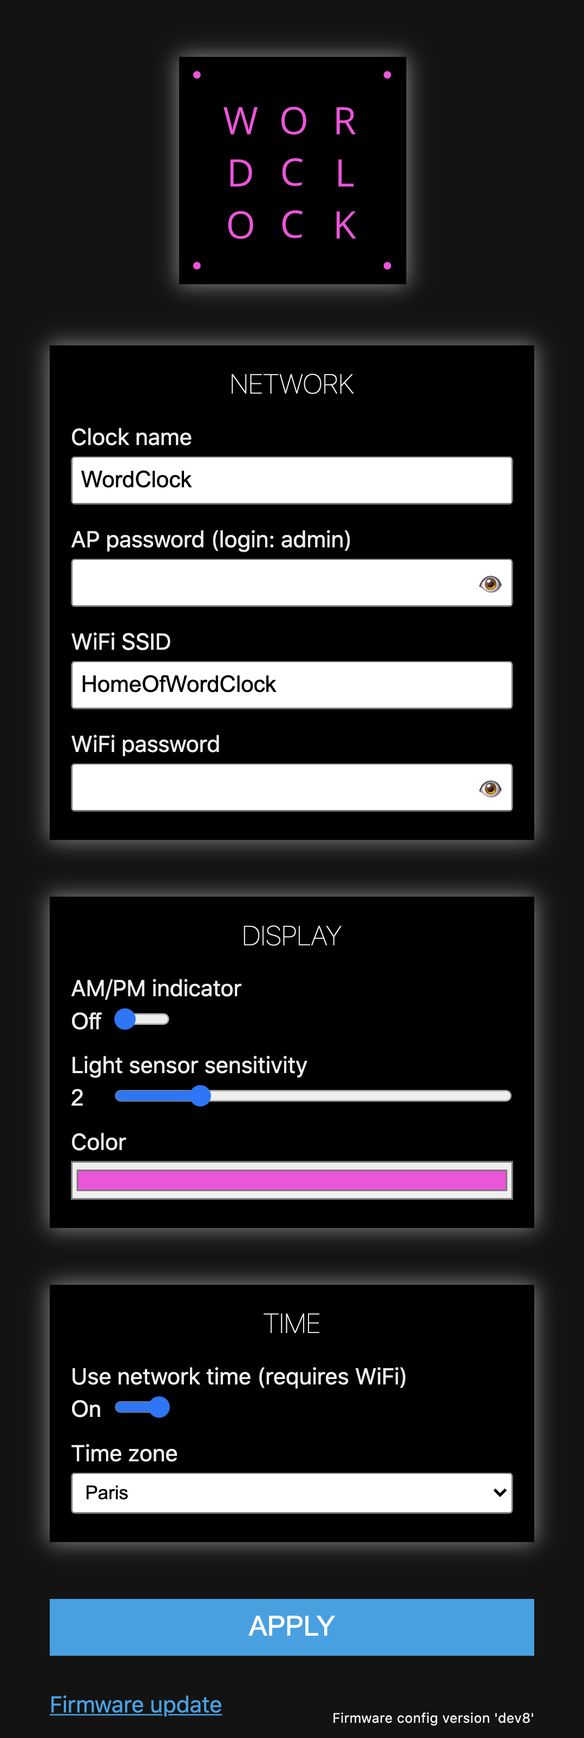
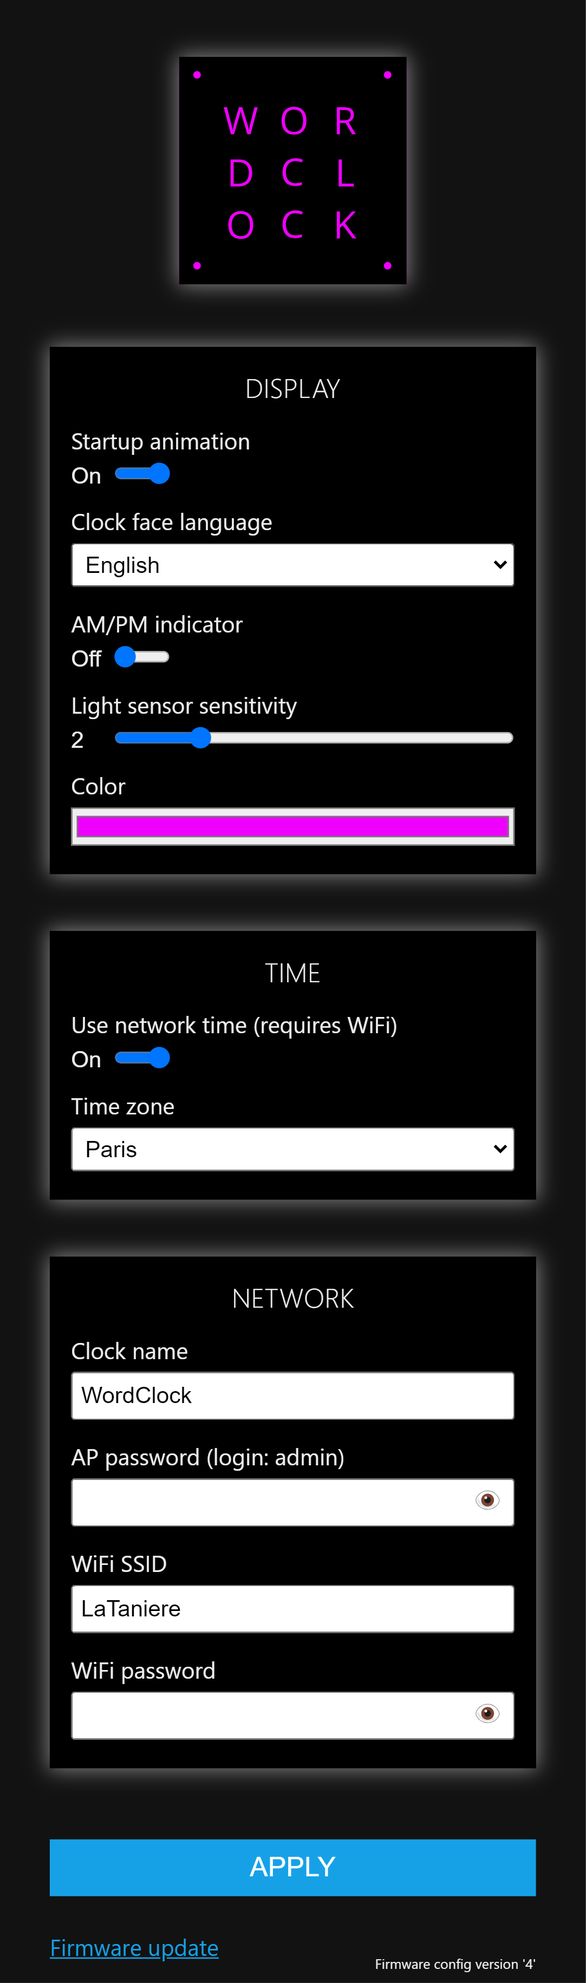
Web UI updates: hide am/pm if unused,  network section at bottom when already set

diff --git a/software/tools/customhtml_script_inner.js b/software/tools/customhtml_script_inner.js
@@ -10,6 +10,13 @@ document.addEventListener(
     'DOMContentLoaded',
     function (e) {
 
+        // Move network session at the bottom if SSID is set.
+        if(!!document.getElementById("iwcWifiSsid").value) {
+          const f = document.getElementById("iwcSys");
+          f.parentElement.removeChild(f);
+          document.querySelector('form').insertBefore(f, document.querySelector('button[type=submit]'));
+       }
+
         // Replace text inputs with desired type
         document.querySelectorAll("[data-type]").forEach((el) => {
           el.type = el.getAttribute("data-type");
@@ -85,11 +92,17 @@ document.addEventListener(
                 selectEl.appendChild(optgroupEl);
             }
             customSelect.id += '-d';
+            const ctrlAttr = customSelect.getAttribute('data-controlledby');
+            const ctrlVal = customSelect.getAttribute('data-showon');
+            if (ctrlAttr && ctrlVal) {
+              selectEl.setAttribute('data-controlledby', ctrlAttr);
+              selectEl.setAttribute('data-showon', ctrlVal);
+            }
             customSelect.insertAdjacentElement('beforebegin', selectEl);
             customSelect.parentElement.removeChild(customSelect);
         });
 
-        // Adds a label next to Range inputs
+        // Adds a label next to Range inputs.
         document.querySelectorAll("input[type=range]").forEach((inputEl) => {
             const labels = inputEl.getAttribute("data-labels");
             const labelList = labels && labels.split("|");
@@ -100,18 +113,16 @@ document.addEventListener(
             setLabel();
         });
 
-        // // Show/hide config fields based on NTP setting
-        const ntpEl = document.getElementById("ntp_enabled");
-        if (ntpEl) {
-            const toggleTimeFields = (ntpEnabled) => {
-                document.getElementById('time').parentElement.style.display = ntpEnabled ? 'none' : '';
-                document.getElementById('timezone').parentElement.style.display = ntpEnabled ? '' : 'none';
-            };
-            ntpEl.addEventListener('change', (e) => {
-                toggleTimeFields(ntpEl.value == 1);
-            });
-            toggleTimeFields(ntpEl.value == 1);
-        }
+        // Show/hide fields based on others.
+        document.querySelectorAll("[data-controlledby]").forEach((controlledEl) => {
+          const controllerEl = document.getElementById(controlledEl.getAttribute('data-controlledby'));
+          const showValues = controlledEl.getAttribute('data-showon').split('|');
+          const apply = () => {
+            controlledEl.parentElement.style.display = showValues.indexOf(controllerEl.value + "") < 0 ? 'none' : '';
+          };
+          controllerEl.addEventListener('change', apply);
+          apply();
+        });
 
         // Apply the selected color to the clock logo :)
         const colorInputEl = document.querySelector('input[type=color]');

diff --git a/software/tools/timezones_gen.js b/software/tools/timezones_gen.js
@@ -36,7 +36,7 @@ ${posix}
 
 const char * const location[] PROGMEM = {${nameconsts.join(",")}};
 const char * const posix[] PROGMEM = {${posixconsts.join(",")}};
-const char locationOptions[] PROGMEM = "data-options='${readables.join("|")}'";
+const char locationOptions[] PROGMEM = "data-controlledby='ntp_enabled' data-showon='1' data-options='${readables.join("|")}'";
 
   `;
 

diff --git a/software/wordclock/src/src/Timezones.h b/software/wordclock/src/src/Timezones.h
@@ -928,4 +928,4 @@ const char posix459[] PROGMEM = "<+12>-12";
 
 const char *const location[] PROGMEM = {location0, location1, location2, location3, location4, location5, location6, location7, location8, location9, location10, location11, location12, location13, location14, location15, location16, location17, location18, location19, location20, location21, location22, location23, location24, location25, location26, location27, location28, location29, location30, location31, location32, location33, location34, location35, location36, location37, location38, location39, location40, location41, location42, location43, location44, location45, location46, location47, location48, location49, location50, location51, location52, location53, location54, location55, location56, location57, location58, location59, location60, location61, location62, location63, location64, location65, location66, location67, location68, location69, location70, location71, location72, location73, location74, location75, location76, location77, location78, location79, location80, location81, location82, location83, location84, location85, location86, location87, location88, location89, location90, location91, location92, location93, location94, location95, location96, location97, location98, location99, location100, location101, location102, location103, location104, location105, location106, location107, location108, location109, location110, location111, location112, location113, location114, location115, location116, location117, location118, location119, location120, location121, location122, location123, location124, location125, location126, location127, location128, location129, location130, location131, location132, location133, location134, location135, location136, location137, location138, location139, location140, location141, location142, location143, location144, location145, location146, location147, location148, location149, location150, location151, location152, location153, location154, location155, location156, location157, location158, location159, location160, location161, location162, location163, location164, location165, location166, location167, location168, location169, location170, location171, location172, location173, location174, location175, location176, location177, location178, location179, location180, location181, location182, location183, location184, location185, location186, location187, location188, location189, location190, location191, location192, location193, location194, location195, location196, location197, location198, location199, location200, location201, location202, location203, location204, location205, location206, location207, location208, location209, location210, location211, location212, location213, location214, location215, location216, location217, location218, location219, location220, location221, location222, location223, location224, location225, location226, location227, location228, location229, location230, location231, location232, location233, location234, location235, location236, location237, location238, location239, location240, location241, location242, location243, location244, location245, location246, location247, location248, location249, location250, location251, location252, location253, location254, location255, location256, location257, location258, location259, location260, location261, location262, location263, location264, location265, location266, location267, location268, location269, location270, location271, location272, location273, location274, location275, location276, location277, location278, location279, location280, location281, location282, location283, location284, location285, location286, location287, location288, location289, location290, location291, location292, location293, location294, location295, location296, location297, location298, location299, location300, location301, location302, location303, location304, location305, location306, location307, location308, location309, location310, location311, location312, location313, location314, location315, location316, location317, location318, location319, location320, location321, location322, location323, location324, location325, location326, location327, location328, location329, location330, location331, location332, location333, location334, location335, location336, location337, location338, location339, location340, location341, location342, location343, location344, location345, location346, location347, location348, location349, location350, location351, location352, location353, location354, location355, location356, location357, location358, location359, location360, location361, location362, location363, location364, location365, location366, location367, location368, location369, location370, location371, location372, location373, location374, location375, location376, location377, location378, location379, location380, location381, location382, location383, location384, location385, location386, location387, location388, location389, location390, location391, location392, location393, location394, location395, location396, location397, location398, location399, location400, location401, location402, location403, location404, location405, location406, location407, location408, location409, location410, location411, location412, location413, location414, location415, location416, location417, location418, location419, location420, location421, location422, location423, location424, location425, location426, location427, location428, location429, location430, location431, location432, location433, location434, location435, location436, location437, location438, location439, location440, location441, location442, location443, location444, location445, location446, location447, location448, location449, location450, location451, location452, location453, location454, location455, location456, location457, location458, location459};
 const char *const posix[] PROGMEM = {posix0, posix1, posix2, posix3, posix4, posix5, posix6, posix7, posix8, posix9, posix10, posix11, posix12, posix13, posix14, posix15, posix16, posix17, posix18, posix19, posix20, posix21, posix22, posix23, posix24, posix25, posix26, posix27, posix28, posix29, posix30, posix31, posix32, posix33, posix34, posix35, posix36, posix37, posix38, posix39, posix40, posix41, posix42, posix43, posix44, posix45, posix46, posix47, posix48, posix49, posix50, posix51, posix52, posix53, posix54, posix55, posix56, posix57, posix58, posix59, posix60, posix61, posix62, posix63, posix64, posix65, posix66, posix67, posix68, posix69, posix70, posix71, posix72, posix73, posix74, posix75, posix76, posix77, posix78, posix79, posix80, posix81, posix82, posix83, posix84, posix85, posix86, posix87, posix88, posix89, posix90, posix91, posix92, posix93, posix94, posix95, posix96, posix97, posix98, posix99, posix100, posix101, posix102, posix103, posix104, posix105, posix106, posix107, posix108, posix109, posix110, posix111, posix112, posix113, posix114, posix115, posix116, posix117, posix118, posix119, posix120, posix121, posix122, posix123, posix124, posix125, posix126, posix127, posix128, posix129, posix130, posix131, posix132, posix133, posix134, posix135, posix136, posix137, posix138, posix139, posix140, posix141, posix142, posix143, posix144, posix145, posix146, posix147, posix148, posix149, posix150, posix151, posix152, posix153, posix154, posix155, posix156, posix157, posix158, posix159, posix160, posix161, posix162, posix163, posix164, posix165, posix166, posix167, posix168, posix169, posix170, posix171, posix172, posix173, posix174, posix175, posix176, posix177, posix178, posix179, posix180, posix181, posix182, posix183, posix184, posix185, posix186, posix187, posix188, posix189, posix190, posix191, posix192, posix193, posix194, posix195, posix196, posix197, posix198, posix199, posix200, posix201, posix202, posix203, posix204, posix205, posix206, posix207, posix208, posix209, posix210, posix211, posix212, posix213, posix214, posix215, posix216, posix217, posix218, posix219, posix220, posix221, posix222, posix223, posix224, posix225, posix226, posix227, posix228, posix229, posix230, posix231, posix232, posix233, posix234, posix235, posix236, posix237, posix238, posix239, posix240, posix241, posix242, posix243, posix244, posix245, posix246, posix247, posix248, posix249, posix250, posix251, posix252, posix253, posix254, posix255, posix256, posix257, posix258, posix259, posix260, posix261, posix262, posix263, posix264, posix265, posix266, posix267, posix268, posix269, posix270, posix271, posix272, posix273, posix274, posix275, posix276, posix277, posix278, posix279, posix280, posix281, posix282, posix283, posix284, posix285, posix286, posix287, posix288, posix289, posix290, posix291, posix292, posix293, posix294, posix295, posix296, posix297, posix298, posix299, posix300, posix301, posix302, posix303, posix304, posix305, posix306, posix307, posix308, posix309, posix310, posix311, posix312, posix313, posix314, posix315, posix316, posix317, posix318, posix319, posix320, posix321, posix322, posix323, posix324, posix325, posix326, posix327, posix328, posix329, posix330, posix331, posix332, posix333, posix334, posix335, posix336, posix337, posix338, posix339, posix340, posix341, posix342, posix343, posix344, posix345, posix346, posix347, posix348, posix349, posix350, posix351, posix352, posix353, posix354, posix355, posix356, posix357, posix358, posix359, posix360, posix361, posix362, posix363, posix364, posix365, posix366, posix367, posix368, posix369, posix370, posix371, posix372, posix373, posix374, posix375, posix376, posix377, posix378, posix379, posix380, posix381, posix382, posix383, posix384, posix385, posix386, posix387, posix388, posix389, posix390, posix391, posix392, posix393, posix394, posix395, posix396, posix397, posix398, posix399, posix400, posix401, posix402, posix403, posix404, posix405, posix406, posix407, posix408, posix409, posix410, posix411, posix412, posix413, posix414, posix415, posix416, posix417, posix418, posix419, posix420, posix421, posix422, posix423, posix424, posix425, posix426, posix427, posix428, posix429, posix430, posix431, posix432, posix433, posix434, posix435, posix436, posix437, posix438, posix439, posix440, posix441, posix442, posix443, posix444, posix445, posix446, posix447, posix448, posix449, posix450, posix451, posix452, posix453, posix454, posix455, posix456, posix457, posix458, posix459};
-const char locationOptions[] PROGMEM = "data-options='Africa/Abidjan|Africa/Accra|Africa/Addis Ababa|Africa/Algiers|Africa/Asmara|Africa/Bamako|Africa/Bangui|Africa/Banjul|Africa/Bissau|Africa/Blantyre|Africa/Brazzaville|Africa/Bujumbura|Africa/Cairo|Africa/Casablanca|Africa/Ceuta|Africa/Conakry|Africa/Dakar|Africa/Dar es Salaam|Africa/Djibouti|Africa/Douala|Africa/El Aaiun|Africa/Freetown|Africa/Gaborone|Africa/Harare|Africa/Johannesburg|Africa/Juba|Africa/Kampala|Africa/Khartoum|Africa/Kigali|Africa/Kinshasa|Africa/Lagos|Africa/Libreville|Africa/Lome|Africa/Luanda|Africa/Lubumbashi|Africa/Lusaka|Africa/Malabo|Africa/Maputo|Africa/Maseru|Africa/Mbabane|Africa/Mogadishu|Africa/Monrovia|Africa/Nairobi|Africa/Ndjamena|Africa/Niamey|Africa/Nouakchott|Africa/Ouagadougou|Africa/Porto-Novo|Africa/Sao Tome|Africa/Tripoli|Africa/Tunis|Africa/Windhoek|America/Adak|America/Anchorage|America/Anguilla|America/Antigua|America/Araguaina|America/Argentina/Buenos Aires|America/Argentina/Catamarca|America/Argentina/Cordoba|America/Argentina/Jujuy|America/Argentina/La Rioja|America/Argentina/Mendoza|America/Argentina/Rio Gallegos|America/Argentina/Salta|America/Argentina/San Juan|America/Argentina/San Luis|America/Argentina/Tucuman|America/Argentina/Ushuaia|America/Aruba|America/Asuncion|America/Atikokan|America/Bahia|America/Bahia Banderas|America/Barbados|America/Belem|America/Belize|America/Blanc-Sablon|America/Boa Vista|America/Bogota|America/Boise|America/Cambridge Bay|America/Campo Grande|America/Cancun|America/Caracas|America/Cayenne|America/Cayman|America/Chicago|America/Chihuahua|America/Costa Rica|America/Creston|America/Cuiaba|America/Curacao|America/Danmarkshavn|America/Dawson|America/Dawson Creek|America/Denver|America/Detroit|America/Dominica|America/Edmonton|America/Eirunepe|America/El Salvador|America/Fort Nelson|America/Fortaleza|America/Glace Bay|America/Godthab|America/Goose Bay|America/Grand Turk|America/Grenada|America/Guadeloupe|America/Guatemala|America/Guayaquil|America/Guyana|America/Halifax|America/Havana|America/Hermosillo|America/Indiana/Indianapolis|America/Indiana/Knox|America/Indiana/Marengo|America/Indiana/Petersburg|America/Indiana/Tell City|America/Indiana/Vevay|America/Indiana/Vincennes|America/Indiana/Winamac|America/Inuvik|America/Iqaluit|America/Jamaica|America/Juneau|America/Kentucky/Louisville|America/Kentucky/Monticello|America/Kralendijk|America/La Paz|America/Lima|America/Los Angeles|America/Lower Princes|America/Maceio|America/Managua|America/Manaus|America/Marigot|America/Martinique|America/Matamoros|America/Mazatlan|America/Menominee|America/Merida|America/Metlakatla|America/Mexico City|America/Miquelon|America/Moncton|America/Monterrey|America/Montevideo|America/Montreal|America/Montserrat|America/Nassau|America/New York|America/Nipigon|America/Nome|America/Noronha|America/North Dakota/Beulah|America/North Dakota/Center|America/North Dakota/New Salem|America/Ojinaga|America/Panama|America/Pangnirtung|America/Paramaribo|America/Phoenix|America/Port-au-Prince|America/Port of Spain|America/Porto Velho|America/Puerto Rico|America/Punta Arenas|America/Rainy River|America/Rankin Inlet|America/Recife|America/Regina|America/Resolute|America/Rio Branco|America/Santarem|America/Santiago|America/Santo Domingo|America/Sao Paulo|America/Scoresbysund|America/Sitka|America/St Barthelemy|America/St Johns|America/St Kitts|America/St Lucia|America/St Thomas|America/St Vincent|America/Swift Current|America/Tegucigalpa|America/Thule|America/Thunder Bay|America/Tijuana|America/Toronto|America/Tortola|America/Vancouver|America/Whitehorse|America/Winnipeg|America/Yakutat|America/Yellowknife|Antarctica/Casey|Antarctica/Davis|Antarctica/DumontDUrville|Antarctica/Macquarie|Antarctica/Mawson|Antarctica/McMurdo|Antarctica/Palmer|Antarctica/Rothera|Antarctica/Syowa|Antarctica/Troll|Antarctica/Vostok|Arctic/Longyearbyen|Asia/Aden|Asia/Almaty|Asia/Amman|Asia/Anadyr|Asia/Aqtau|Asia/Aqtobe|Asia/Ashgabat|Asia/Atyrau|Asia/Baghdad|Asia/Bahrain|Asia/Baku|Asia/Bangkok|Asia/Barnaul|Asia/Beirut|Asia/Bishkek|Asia/Brunei|Asia/Chita|Asia/Choibalsan|Asia/Colombo|Asia/Damascus|Asia/Dhaka|Asia/Dili|Asia/Dubai|Asia/Dushanbe|Asia/Famagusta|Asia/Gaza|Asia/Hebron|Asia/Ho Chi Minh|Asia/Hong Kong|Asia/Hovd|Asia/Irkutsk|Asia/Jakarta|Asia/Jayapura|Asia/Jerusalem|Asia/Kabul|Asia/Kamchatka|Asia/Karachi|Asia/Kathmandu|Asia/Khandyga|Asia/Kolkata|Asia/Krasnoyarsk|Asia/Kuala Lumpur|Asia/Kuching|Asia/Kuwait|Asia/Macau|Asia/Magadan|Asia/Makassar|Asia/Manila|Asia/Muscat|Asia/Nicosia|Asia/Novokuznetsk|Asia/Novosibirsk|Asia/Omsk|Asia/Oral|Asia/Phnom Penh|Asia/Pontianak|Asia/Pyongyang|Asia/Qatar|Asia/Qyzylorda|Asia/Riyadh|Asia/Sakhalin|Asia/Samarkand|Asia/Seoul|Asia/Shanghai|Asia/Singapore|Asia/Srednekolymsk|Asia/Taipei|Asia/Tashkent|Asia/Tbilisi|Asia/Tehran|Asia/Thimphu|Asia/Tokyo|Asia/Tomsk|Asia/Ulaanbaatar|Asia/Urumqi|Asia/Ust-Nera|Asia/Vientiane|Asia/Vladivostok|Asia/Yakutsk|Asia/Yangon|Asia/Yekaterinburg|Asia/Yerevan|Atlantic/Azores|Atlantic/Bermuda|Atlantic/Canary|Atlantic/Cape Verde|Atlantic/Faroe|Atlantic/Madeira|Atlantic/Reykjavik|Atlantic/South Georgia|Atlantic/St Helena|Atlantic/Stanley|Australia/Adelaide|Australia/Brisbane|Australia/Broken Hill|Australia/Currie|Australia/Darwin|Australia/Eucla|Australia/Hobart|Australia/Lindeman|Australia/Lord Howe|Australia/Melbourne|Australia/Perth|Australia/Sydney|Etc/GMT|Etc/GMT+0|Etc/GMT+1|Etc/GMT+10|Etc/GMT+11|Etc/GMT+12|Etc/GMT+2|Etc/GMT+3|Etc/GMT+4|Etc/GMT+5|Etc/GMT+6|Etc/GMT+7|Etc/GMT+8|Etc/GMT+9|Etc/GMT-0|Etc/GMT-1|Etc/GMT-10|Etc/GMT-11|Etc/GMT-12|Etc/GMT-13|Etc/GMT-14|Etc/GMT-2|Etc/GMT-3|Etc/GMT-4|Etc/GMT-5|Etc/GMT-6|Etc/GMT-7|Etc/GMT-8|Etc/GMT-9|Etc/GMT0|Etc/Greenwich|Etc/UCT|Etc/UTC|Etc/Universal|Etc/Zulu|Europe/Amsterdam|Europe/Andorra|Europe/Astrakhan|Europe/Athens|Europe/Belgrade|Europe/Berlin|Europe/Bratislava|Europe/Brussels|Europe/Bucharest|Europe/Budapest|Europe/Busingen|Europe/Chisinau|Europe/Copenhagen|Europe/Dublin|Europe/Gibraltar|Europe/Guernsey|Europe/Helsinki|Europe/Isle of Man|Europe/Istanbul|Europe/Jersey|Europe/Kaliningrad|Europe/Kiev|Europe/Kirov|Europe/Lisbon|Europe/Ljubljana|Europe/London|Europe/Luxembourg|Europe/Madrid|Europe/Malta|Europe/Mariehamn|Europe/Minsk|Europe/Monaco|Europe/Moscow|Europe/Oslo|Europe/Paris|Europe/Podgorica|Europe/Prague|Europe/Riga|Europe/Rome|Europe/Samara|Europe/San Marino|Europe/Sarajevo|Europe/Saratov|Europe/Simferopol|Europe/Skopje|Europe/Sofia|Europe/Stockholm|Europe/Tallinn|Europe/Tirane|Europe/Ulyanovsk|Europe/Uzhgorod|Europe/Vaduz|Europe/Vatican|Europe/Vienna|Europe/Vilnius|Europe/Volgograd|Europe/Warsaw|Europe/Zagreb|Europe/Zaporozhye|Europe/Zurich|Indian/Antananarivo|Indian/Chagos|Indian/Christmas|Indian/Cocos|Indian/Comoro|Indian/Kerguelen|Indian/Mahe|Indian/Maldives|Indian/Mauritius|Indian/Mayotte|Indian/Reunion|Pacific/Apia|Pacific/Auckland|Pacific/Bougainville|Pacific/Chatham|Pacific/Chuuk|Pacific/Easter|Pacific/Efate|Pacific/Enderbury|Pacific/Fakaofo|Pacific/Fiji|Pacific/Funafuti|Pacific/Galapagos|Pacific/Gambier|Pacific/Guadalcanal|Pacific/Guam|Pacific/Honolulu|Pacific/Kiritimati|Pacific/Kosrae|Pacific/Kwajalein|Pacific/Majuro|Pacific/Marquesas|Pacific/Midway|Pacific/Nauru|Pacific/Niue|Pacific/Norfolk|Pacific/Noumea|Pacific/Pago Pago|Pacific/Palau|Pacific/Pitcairn|Pacific/Pohnpei|Pacific/Port Moresby|Pacific/Rarotonga|Pacific/Saipan|Pacific/Tahiti|Pacific/Tarawa|Pacific/Tongatapu|Pacific/Wake|Pacific/Wallis'";
+const char locationOptions[] PROGMEM = "data-controlledby='ntp_enabled' data-showon='1' data-options='Africa/Abidjan|Africa/Accra|Africa/Addis Ababa|Africa/Algiers|Africa/Asmara|Africa/Bamako|Africa/Bangui|Africa/Banjul|Africa/Bissau|Africa/Blantyre|Africa/Brazzaville|Africa/Bujumbura|Africa/Cairo|Africa/Casablanca|Africa/Ceuta|Africa/Conakry|Africa/Dakar|Africa/Dar es Salaam|Africa/Djibouti|Africa/Douala|Africa/El Aaiun|Africa/Freetown|Africa/Gaborone|Africa/Harare|Africa/Johannesburg|Africa/Juba|Africa/Kampala|Africa/Khartoum|Africa/Kigali|Africa/Kinshasa|Africa/Lagos|Africa/Libreville|Africa/Lome|Africa/Luanda|Africa/Lubumbashi|Africa/Lusaka|Africa/Malabo|Africa/Maputo|Africa/Maseru|Africa/Mbabane|Africa/Mogadishu|Africa/Monrovia|Africa/Nairobi|Africa/Ndjamena|Africa/Niamey|Africa/Nouakchott|Africa/Ouagadougou|Africa/Porto-Novo|Africa/Sao Tome|Africa/Tripoli|Africa/Tunis|Africa/Windhoek|America/Adak|America/Anchorage|America/Anguilla|America/Antigua|America/Araguaina|America/Argentina/Buenos Aires|America/Argentina/Catamarca|America/Argentina/Cordoba|America/Argentina/Jujuy|America/Argentina/La Rioja|America/Argentina/Mendoza|America/Argentina/Rio Gallegos|America/Argentina/Salta|America/Argentina/San Juan|America/Argentina/San Luis|America/Argentina/Tucuman|America/Argentina/Ushuaia|America/Aruba|America/Asuncion|America/Atikokan|America/Bahia|America/Bahia Banderas|America/Barbados|America/Belem|America/Belize|America/Blanc-Sablon|America/Boa Vista|America/Bogota|America/Boise|America/Cambridge Bay|America/Campo Grande|America/Cancun|America/Caracas|America/Cayenne|America/Cayman|America/Chicago|America/Chihuahua|America/Costa Rica|America/Creston|America/Cuiaba|America/Curacao|America/Danmarkshavn|America/Dawson|America/Dawson Creek|America/Denver|America/Detroit|America/Dominica|America/Edmonton|America/Eirunepe|America/El Salvador|America/Fort Nelson|America/Fortaleza|America/Glace Bay|America/Godthab|America/Goose Bay|America/Grand Turk|America/Grenada|America/Guadeloupe|America/Guatemala|America/Guayaquil|America/Guyana|America/Halifax|America/Havana|America/Hermosillo|America/Indiana/Indianapolis|America/Indiana/Knox|America/Indiana/Marengo|America/Indiana/Petersburg|America/Indiana/Tell City|America/Indiana/Vevay|America/Indiana/Vincennes|America/Indiana/Winamac|America/Inuvik|America/Iqaluit|America/Jamaica|America/Juneau|America/Kentucky/Louisville|America/Kentucky/Monticello|America/Kralendijk|America/La Paz|America/Lima|America/Los Angeles|America/Lower Princes|America/Maceio|America/Managua|America/Manaus|America/Marigot|America/Martinique|America/Matamoros|America/Mazatlan|America/Menominee|America/Merida|America/Metlakatla|America/Mexico City|America/Miquelon|America/Moncton|America/Monterrey|America/Montevideo|America/Montreal|America/Montserrat|America/Nassau|America/New York|America/Nipigon|America/Nome|America/Noronha|America/North Dakota/Beulah|America/North Dakota/Center|America/North Dakota/New Salem|America/Ojinaga|America/Panama|America/Pangnirtung|America/Paramaribo|America/Phoenix|America/Port-au-Prince|America/Port of Spain|America/Porto Velho|America/Puerto Rico|America/Punta Arenas|America/Rainy River|America/Rankin Inlet|America/Recife|America/Regina|America/Resolute|America/Rio Branco|America/Santarem|America/Santiago|America/Santo Domingo|America/Sao Paulo|America/Scoresbysund|America/Sitka|America/St Barthelemy|America/St Johns|America/St Kitts|America/St Lucia|America/St Thomas|America/St Vincent|America/Swift Current|America/Tegucigalpa|America/Thule|America/Thunder Bay|America/Tijuana|America/Toronto|America/Tortola|America/Vancouver|America/Whitehorse|America/Winnipeg|America/Yakutat|America/Yellowknife|Antarctica/Casey|Antarctica/Davis|Antarctica/DumontDUrville|Antarctica/Macquarie|Antarctica/Mawson|Antarctica/McMurdo|Antarctica/Palmer|Antarctica/Rothera|Antarctica/Syowa|Antarctica/Troll|Antarctica/Vostok|Arctic/Longyearbyen|Asia/Aden|Asia/Almaty|Asia/Amman|Asia/Anadyr|Asia/Aqtau|Asia/Aqtobe|Asia/Ashgabat|Asia/Atyrau|Asia/Baghdad|Asia/Bahrain|Asia/Baku|Asia/Bangkok|Asia/Barnaul|Asia/Beirut|Asia/Bishkek|Asia/Brunei|Asia/Chita|Asia/Choibalsan|Asia/Colombo|Asia/Damascus|Asia/Dhaka|Asia/Dili|Asia/Dubai|Asia/Dushanbe|Asia/Famagusta|Asia/Gaza|Asia/Hebron|Asia/Ho Chi Minh|Asia/Hong Kong|Asia/Hovd|Asia/Irkutsk|Asia/Jakarta|Asia/Jayapura|Asia/Jerusalem|Asia/Kabul|Asia/Kamchatka|Asia/Karachi|Asia/Kathmandu|Asia/Khandyga|Asia/Kolkata|Asia/Krasnoyarsk|Asia/Kuala Lumpur|Asia/Kuching|Asia/Kuwait|Asia/Macau|Asia/Magadan|Asia/Makassar|Asia/Manila|Asia/Muscat|Asia/Nicosia|Asia/Novokuznetsk|Asia/Novosibirsk|Asia/Omsk|Asia/Oral|Asia/Phnom Penh|Asia/Pontianak|Asia/Pyongyang|Asia/Qatar|Asia/Qyzylorda|Asia/Riyadh|Asia/Sakhalin|Asia/Samarkand|Asia/Seoul|Asia/Shanghai|Asia/Singapore|Asia/Srednekolymsk|Asia/Taipei|Asia/Tashkent|Asia/Tbilisi|Asia/Tehran|Asia/Thimphu|Asia/Tokyo|Asia/Tomsk|Asia/Ulaanbaatar|Asia/Urumqi|Asia/Ust-Nera|Asia/Vientiane|Asia/Vladivostok|Asia/Yakutsk|Asia/Yangon|Asia/Yekaterinburg|Asia/Yerevan|Atlantic/Azores|Atlantic/Bermuda|Atlantic/Canary|Atlantic/Cape Verde|Atlantic/Faroe|Atlantic/Madeira|Atlantic/Reykjavik|Atlantic/South Georgia|Atlantic/St Helena|Atlantic/Stanley|Australia/Adelaide|Australia/Brisbane|Australia/Broken Hill|Australia/Currie|Australia/Darwin|Australia/Eucla|Australia/Hobart|Australia/Lindeman|Australia/Lord Howe|Australia/Melbourne|Australia/Perth|Australia/Sydney|Etc/GMT|Etc/GMT+0|Etc/GMT+1|Etc/GMT+10|Etc/GMT+11|Etc/GMT+12|Etc/GMT+2|Etc/GMT+3|Etc/GMT+4|Etc/GMT+5|Etc/GMT+6|Etc/GMT+7|Etc/GMT+8|Etc/GMT+9|Etc/GMT-0|Etc/GMT-1|Etc/GMT-10|Etc/GMT-11|Etc/GMT-12|Etc/GMT-13|Etc/GMT-14|Etc/GMT-2|Etc/GMT-3|Etc/GMT-4|Etc/GMT-5|Etc/GMT-6|Etc/GMT-7|Etc/GMT-8|Etc/GMT-9|Etc/GMT0|Etc/Greenwich|Etc/UCT|Etc/UTC|Etc/Universal|Etc/Zulu|Europe/Amsterdam|Europe/Andorra|Europe/Astrakhan|Europe/Athens|Europe/Belgrade|Europe/Berlin|Europe/Bratislava|Europe/Brussels|Europe/Bucharest|Europe/Budapest|Europe/Busingen|Europe/Chisinau|Europe/Copenhagen|Europe/Dublin|Europe/Gibraltar|Europe/Guernsey|Europe/Helsinki|Europe/Isle of Man|Europe/Istanbul|Europe/Jersey|Europe/Kaliningrad|Europe/Kiev|Europe/Kirov|Europe/Lisbon|Europe/Ljubljana|Europe/London|Europe/Luxembourg|Europe/Madrid|Europe/Malta|Europe/Mariehamn|Europe/Minsk|Europe/Monaco|Europe/Moscow|Europe/Oslo|Europe/Paris|Europe/Podgorica|Europe/Prague|Europe/Riga|Europe/Rome|Europe/Samara|Europe/San Marino|Europe/Sarajevo|Europe/Saratov|Europe/Simferopol|Europe/Skopje|Europe/Sofia|Europe/Stockholm|Europe/Tallinn|Europe/Tirane|Europe/Ulyanovsk|Europe/Uzhgorod|Europe/Vaduz|Europe/Vatican|Europe/Vienna|Europe/Vilnius|Europe/Volgograd|Europe/Warsaw|Europe/Zagreb|Europe/Zaporozhye|Europe/Zurich|Indian/Antananarivo|Indian/Chagos|Indian/Christmas|Indian/Cocos|Indian/Comoro|Indian/Kerguelen|Indian/Mahe|Indian/Maldives|Indian/Mauritius|Indian/Mayotte|Indian/Reunion|Pacific/Apia|Pacific/Auckland|Pacific/Bougainville|Pacific/Chatham|Pacific/Chuuk|Pacific/Easter|Pacific/Efate|Pacific/Enderbury|Pacific/Fakaofo|Pacific/Fiji|Pacific/Funafuti|Pacific/Galapagos|Pacific/Gambier|Pacific/Guadalcanal|Pacific/Guam|Pacific/Honolulu|Pacific/Kiritimati|Pacific/Kosrae|Pacific/Kwajalein|Pacific/Majuro|Pacific/Marquesas|Pacific/Midway|Pacific/Nauru|Pacific/Niue|Pacific/Norfolk|Pacific/Noumea|Pacific/Pago Pago|Pacific/Palau|Pacific/Pitcairn|Pacific/Pohnpei|Pacific/Port Moresby|Pacific/Rarotonga|Pacific/Saipan|Pacific/Tahiti|Pacific/Tarawa|Pacific/Tongatapu|Pacific/Wake|Pacific/Wallis'";

diff --git a/software/wordclock/src/src/Iot.cpp b/software/wordclock/src/src/Iot.cpp
@@ -38,11 +38,11 @@ namespace
 
   // Custom Javascript block that will be added to the header.
   // See customconfig.js for human-readable version.
-  const char CUSTOMHTML_SCRIPT_INNER[] PROGMEM ="document.addEventListener(\"DOMContentLoaded\",function(f){document.querySelectorAll(\"[data-type]\").forEach(function(a){a.type=a.getAttribute(\"data-type\")});document.querySelectorAll(\"input[type=password]\").forEach(function(a){var b=document.createElement(\"input\");b.classList.add(\"pwtoggle\");b.type=\"button\";b.value=\"\\ud83d\\udc41\\ufe0f\";a.insertAdjacentElement(\"afterend\",b);b.onclick=function(){\"password\"===a.type?(a.type=\"text\",b.value=\"\\ud83d\\udd12\"):(a.type=\"password\",b.value=\"\\ud83d\\udc41\\ufe0f\")}});\
-(f=document.querySelector(\"form\"))&&f.addEventListener(\"submit\",function(){var a=document.querySelector(\"button[type=submit]\");a.innerText=\"Saving...\";a.toggleAttribute(\"disabled\",!0)});document.querySelectorAll(\"input[data-options]\").forEach(function(a){var b=a.value,h=a.getAttribute(\"data-options\").split(\"|\"),e=document.createElement(\"select\");e.name=a.name;e.id=a.id;\"\"===b&&e.appendChild(document.createElement(\"option\"));var c=null;h.forEach(function(m,n){var d=m.split(\"/\"),g=m;1<d.length?(g=d.splice(0,\
-1)[0],c&&g==c.label||(c&&e.appendChild(c),c=document.createElement(\"optgroup\"),c.label=g),g=d.join(\" / \")):c&&(e.appendChild(c),c=null);d=document.createElement(\"option\");d.value=n;d.innerText=g;n==b&&d.toggleAttribute(\"selected\");c?c.appendChild(d):e.appendChild(d)});c&&e.appendChild(c);a.id+=\"-d\";a.insertAdjacentElement(\"beforebegin\",e);a.parentElement.removeChild(a)});document.querySelectorAll(\"input[type=range]\").forEach(function(a){var b=a.getAttribute(\"data-labels\"),h=b&&b.split(\"|\");b=function(){a.setAttribute(\"data-label\",\
-h?h[parseInt(a.value,10)]||a.value:a.value)};a.oninput=b;b()});var k=document.getElementById(\"ntp_enabled\");if(k){var p=function(a){document.getElementById(\"time\").parentElement.style.display=a?\"none\":\"\";document.getElementById(\"timezone\").parentElement.style.display=a?\"\":\"none\"};k.addEventListener(\"change\",function(a){p(1==k.value)});p(1==k.value)}var l=document.querySelector(\"input[type=color]\");l&&(f=function(){document.querySelector(\".logoContainer\").style.backgroundColor=\
-l.value},l.addEventListener(\"input\",f),f())});";
+  const char CUSTOMHTML_SCRIPT_INNER[] PROGMEM = "document.addEventListener(\"DOMContentLoaded\",function(e){document.getElementById(\"iwcWifiSsid\").value&&(e=document.getElementById(\"iwcSys\"),e.parentElement.removeChild(e),document.querySelector(\"form\").insertBefore(e,document.querySelector(\"button[type=submit]\")));document.querySelectorAll(\"[data-type]\").forEach(function(a){a.type=a.getAttribute(\"data-type\")});document.querySelectorAll(\"input[type=password]\").forEach(function(a){var b=document.createElement(\"input\");b.classList.add(\"pwtoggle\");b.type=\
+\"button\";b.value=\"\\ud83d\\udc41\\ufe0f\";a.insertAdjacentElement(\"afterend\",b);b.onclick=function(){\"password\"===a.type?(a.type=\"text\",b.value=\"\\ud83d\\udd12\"):(a.type=\"password\",b.value=\"\\ud83d\\udc41\\ufe0f\")}});(e=document.querySelector(\"form\"))&&e.addEventListener(\"submit\",function(){var a=document.querySelector(\"button[type=submit]\");a.innerText=\"Saving...\";a.toggleAttribute(\"disabled\",!0)});document.querySelectorAll(\"input[data-options]\").forEach(function(a){var b=a.value,f=a.getAttribute(\"data-options\").split(\"|\"),\
+c=document.createElement(\"select\");c.name=a.name;c.id=a.id;\"\"===b&&c.appendChild(document.createElement(\"option\"));var d=null;f.forEach(function(l,m){var g=l.split(\"/\"),h=l;1<g.length?(h=g.splice(0,1)[0],d&&h==d.label||(d&&c.appendChild(d),d=document.createElement(\"optgroup\"),d.label=h),h=g.join(\" / \")):d&&(c.appendChild(d),d=null);g=document.createElement(\"option\");g.value=m;g.innerText=h;m==b&&g.toggleAttribute(\"selected\");d?d.appendChild(g):c.appendChild(g)});d&&c.appendChild(d);a.id+=\"-d\";f=a.getAttribute(\"data-controlledby\");\
+var n=a.getAttribute(\"data-showon\");f&&n&&(c.setAttribute(\"data-controlledby\",f),c.setAttribute(\"data-showon\",n));a.insertAdjacentElement(\"beforebegin\",c);a.parentElement.removeChild(a)});document.querySelectorAll(\"input[type=range]\").forEach(function(a){var b=a.getAttribute(\"data-labels\"),f=b&&b.split(\"|\");b=function(){a.setAttribute(\"data-label\",f?f[parseInt(a.value,10)]||a.value:a.value)};a.oninput=b;b()});document.querySelectorAll(\"[data-controlledby]\").forEach(function(a){var b=document.getElementById(a.getAttribute(\"data-controlledby\")),\
+f=a.getAttribute(\"data-showon\").split(\"|\"),c=function(){a.parentElement.style.display=0>f.indexOf(b.value+\"\")?\"none\":\"\"};b.addEventListener(\"change\",c);c()});var k=document.querySelector(\"input[type=color]\");k&&(e=function(){document.querySelector(\".logoContainer\").style.backgroundColor=k.value},k.addEventListener(\"input\",e),e())});";
 
   // Custom style added to the style tag.
   const char CUSTOMHTML_STYLE_INNER[] PROGMEM = "\n\
@@ -254,7 +254,7 @@ Iot::Iot(Display *display, RTC_DS3231 *rtc)
                    "style='border-width: 1px; padding: 1px;'"),
       show_ampm_param_(
           "AM/PM indicator", "show_ampm", show_ampm_value_,
-          IOT_CONFIG_VALUE_LENGTH, "0", 0, 1, 1, "style='width: 40px;' data-labels='Off|On'"),
+          IOT_CONFIG_VALUE_LENGTH, "0", 0, 1, 1, "style='width: 40px;' data-labels='Off|On' data-controlledby='clockface_language' data-showon='0'"),
       ldr_sensitivity_param_(
           "Light sensor sensitivity", "ldr_sensitivity", ldr_sensitivity_value_,
           IOT_CONFIG_VALUE_LENGTH, "5", 0, 10, 1, "data-labels='Off'"),
@@ -271,7 +271,7 @@ Iot::Iot(Display *display, RTC_DS3231 *rtc)
           "Time zone", "timezone", timezone_value_, IOT_CONFIG_VALUE_LENGTH,
           DEFAULT_TIMEZONE, DEFAULT_TIMEZONE, locationOptions),
       manual_time_param_("Time", "time", manual_time_value_, IOT_CONFIG_VALUE_LENGTH,
-                         "hh:mm:ss", nullptr, "data-type='time' pattern='\\d{1,2}:\\d{1,2}:\\d{1,2}' step='1'"),
+                         "hh:mm:ss", nullptr, "data-type='time' pattern='\\d{1,2}:\\d{1,2}:\\d{1,2}' step='1' data-controlledby='ntp_enabled' data-showon='0'"),
       time_group_("time_group", "Time"),
       display_group_("display_group", "Display"),
       iot_web_conf_(THING_NAME, &dns_server_, &web_server_,

diff --git a/software/wordclock/src/src/logging.h b/software/wordclock/src/src/logging.h
@@ -1,7 +1,7 @@
 #pragma once
 
 // Define debug to turn on debug logging.
-#define DEBUG 1
+// #define DEBUG 1
 
 // DLOG and DLOGLN are equivalent of Serial.print and println, but turned off by
 // the DEBUG macro absence.
